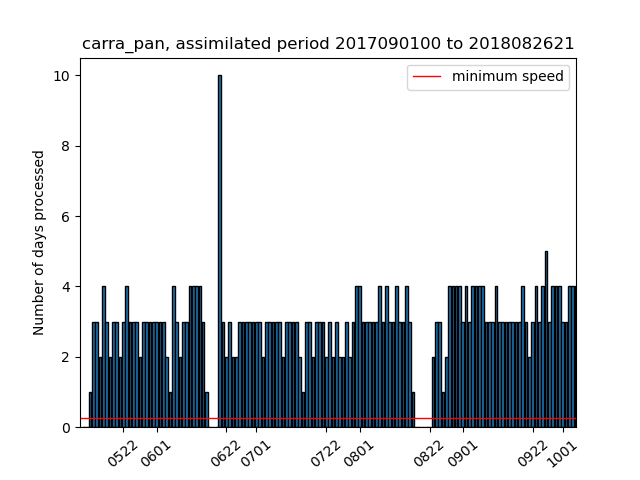
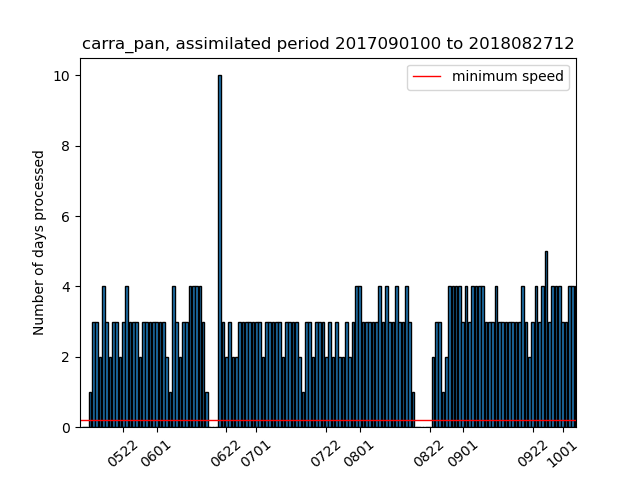
update repo

Changed region(s): [[0.125, 0.8438, 0.9062, 0.9062], [0.8438, 0.0625, 0.9062, 0.125]]

diff --git a/current_state_sims.html b/current_state_sims.html
@@ -2,18 +2,18 @@
 <h1>Estimated completion dates and simulation speeds</h1>
 <p>Stream (production) completion date based on 30d (7d) moving avg speed</p>
 <p><a href="https://docs.google.com/document/d/1zDKAxuEXYnWWYzT3SZnZwY5WW8nodUMeYRjAGz46coc/edit#">Details of the calculation of the completion dates</a></p>
-<p>Last update: 2021/10/06 12:43:28 UTC</p>
+<p>Last update: 2021/10/06 18:44:27 UTC</p>
 <p>Total progress CARRA: 99.44% <a href="https://hirlam.org/portal/CARRA/Progress/GanntChart_CARRA.html"> (see detailed progress meter in Gantt chart) </a></p>
 <p>Total progress PANARCTIC: 91.67% </p>
 <p><a href="https://hirlam.org/portal/CARRA/Progress/waiting_times.html"> Queue waiting times for all streams</a></p>
 <p><a href="https://hirlam.org/portal/CARRA/Progress/mars_status.html"> MARS archive throughput </a></p>
 <html><table border="1"><tr><th>expId</th><th>Current assimilated date</th><th>End date of stream </th><th> Completion date</th><th> Avg. throughput (7d) </th> <th>Avg. throughput (30d) </th> <th> Remarks</tr>
-<tr bgcolor="#FFFF00"><td>carra_NE_3</td><td>2021063000</td><td>2021063021</td><td>2021100612</td><td>(0.0) days/day</td><td>(2.83) days/day</td><td>Inactive the past week</tr>
+<tr bgcolor="#FFFF00"><td>carra_NE_3</td><td>2021063000</td><td>2021063021</td><td>2021100618</td><td>(0.0) days/day</td><td>(2.83) days/day</td><td>Inactive the past week</tr>
 <tr bgcolor="#33FF38"><td>carra_NE_4</td><td>1992090100</td><td>1992083021</td><td>Finished on 20210824</td><td>(0.0) days/day</td><td>(0.0) days/day</td><td>Stream finished</tr>
 <tr bgcolor="#33FF38"><td>carra_NE_5</td><td>1994090100</td><td>1994083021</td><td>Finished on 20210824</td><td>(0.0) days/day</td><td>(0.0) days/day</td><td>Stream finished</tr>
-<tr bgcolor="#33FF38"><td>carra_NE_6</td><td>1997070100</td><td>1997063021</td><td>2021100600</td><td>(0.0) days/day</td><td>(2.03) days/day</td><td>Stream finished</tr>
-<tr bgcolor="#FFFF00"><td>carra_IGB_3</td><td>2021063000</td><td>2021063021</td><td>2021100612</td><td>(0.0) days/day</td><td>(2.87) days/day</td><td>Inactive the past week</tr>
-<tr bgcolor="#33FF38"><td>carra_IGB_4</td><td>1992090100</td><td>1992083021</td><td>2021092900</td><td>(0.0) days/day</td><td>(0.27) days/day</td><td>Stream finished</tr>
-<tr bgcolor="#33FF38"><td>carra_IGB_5</td><td>1994090100</td><td>1994083021</td><td>2021100523</td><td>(0.0) days/day</td><td>(3.77) days/day</td><td>Stream finished</tr>
-<tr bgcolor="#FFA500"><td>carra_IGB_6</td><td>1997012800</td><td>1997063021</td><td>2021110107</td><td>(6.57) days/day</td><td>(5.93) days/day</td><td>Completion date after project end (20211031)</tr>
-<tr bgcolor="#FFFFFF"><td>carra_pan</td><td>2018082621</td><td>2018090100</td><td>2021100806</td><td>(3.71) days/day</td><td>(3.43) days/day</td><td></tr>
+<tr bgcolor="#33FF38"><td>carra_NE_6</td><td>1997070100</td><td>1997063021</td><td>2021100606</td><td>(0.0) days/day</td><td>(2.03) days/day</td><td>Stream finished</tr>
+<tr bgcolor="#FFFF00"><td>carra_IGB_3</td><td>2021063000</td><td>2021063021</td><td>2021100618</td><td>(0.0) days/day</td><td>(2.87) days/day</td><td>Inactive the past week</tr>
+<tr bgcolor="#33FF38"><td>carra_IGB_4</td><td>1992090100</td><td>1992083021</td><td>2021092906</td><td>(0.0) days/day</td><td>(0.27) days/day</td><td>Stream finished</tr>
+<tr bgcolor="#33FF38"><td>carra_IGB_5</td><td>1994090100</td><td>1994083021</td><td>2021100606</td><td>(0.0) days/day</td><td>(3.77) days/day</td><td>Stream finished</tr>
+<tr bgcolor="#FFA500"><td>carra_IGB_6</td><td>1997012912</td><td>1997063021</td><td>2021110109</td><td>(6.57) days/day</td><td>(5.93) days/day</td><td>Completion date after project end (20211031)</tr>
+<tr bgcolor="#FFFFFF"><td>carra_pan</td><td>2018082712</td><td>2018090100</td><td>2021100805</td><td>(3.71) days/day</td><td>(3.43) days/day</td><td></tr>
